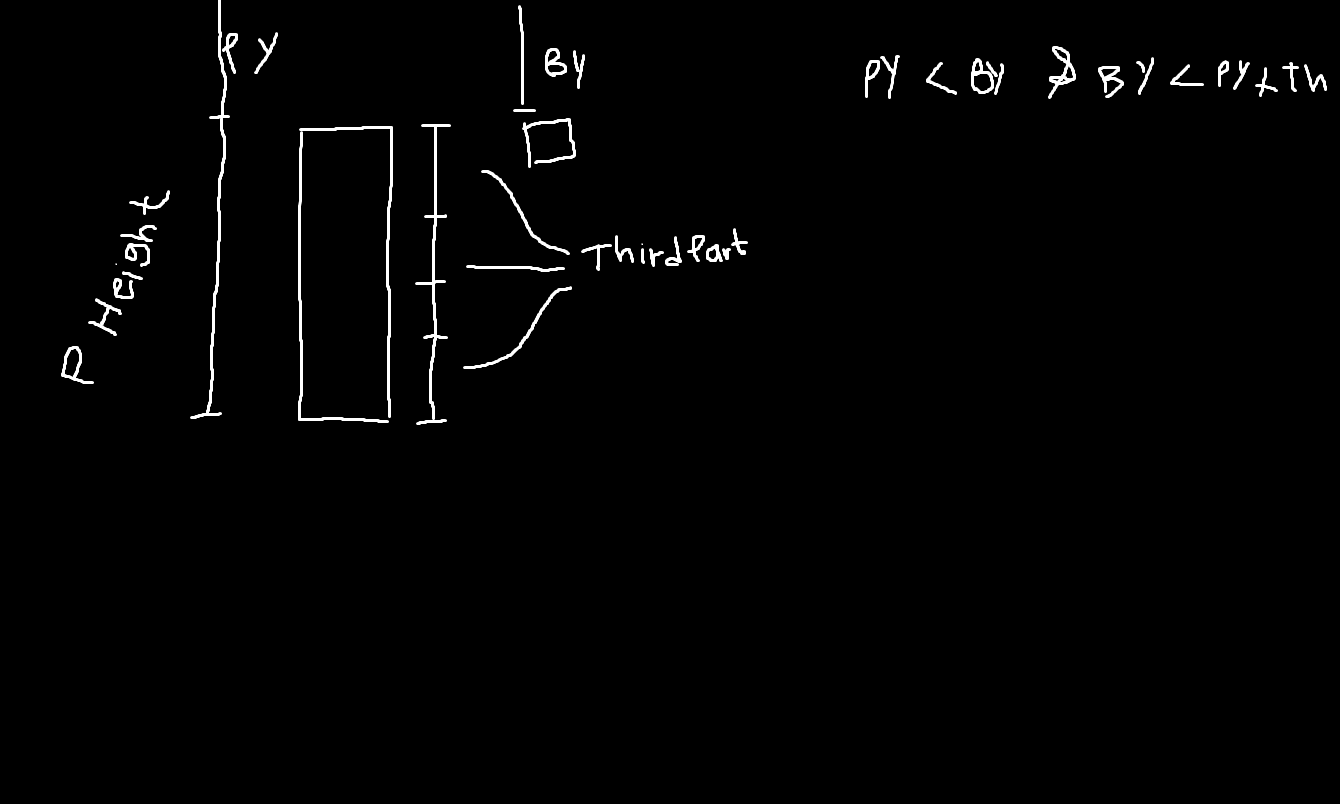
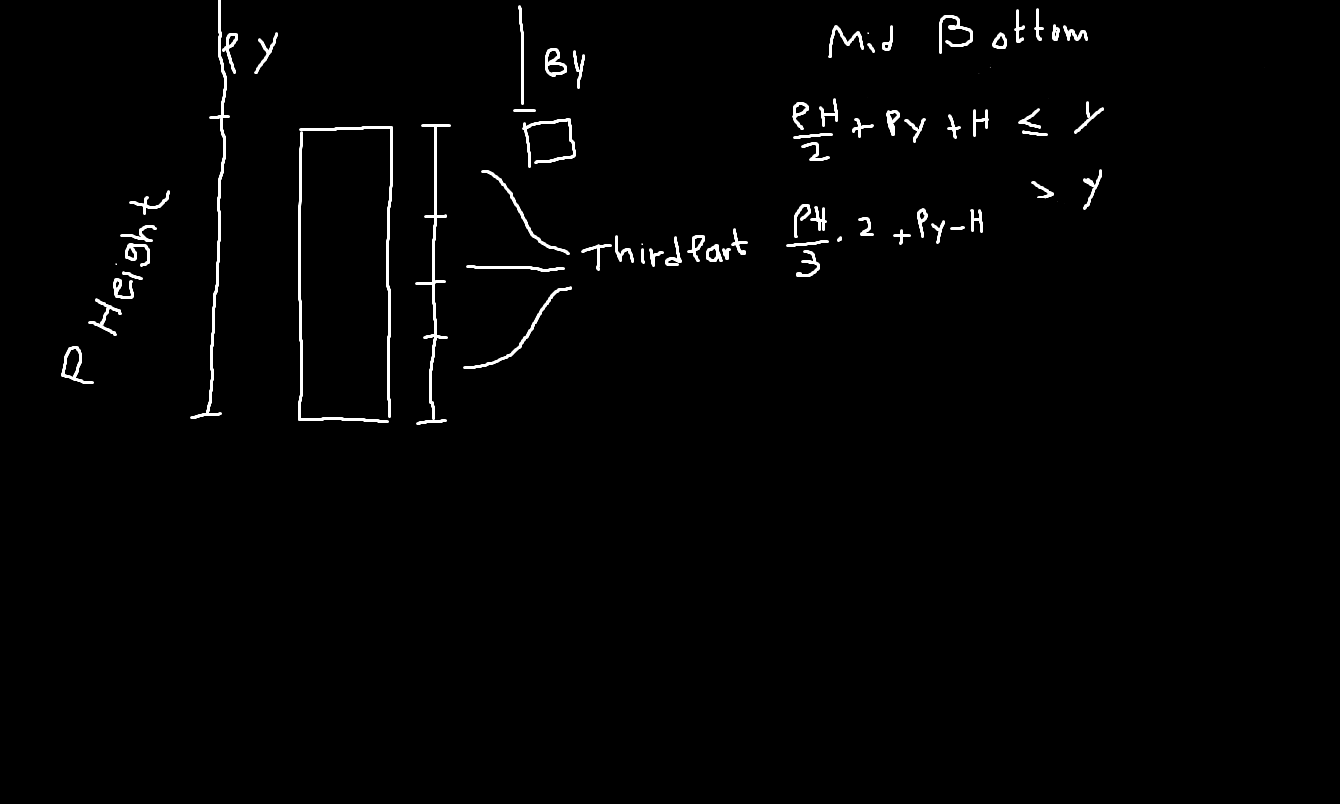
player vs player done

diff --git a/js/pong.js b/js/pong.js
@@ -15,9 +15,9 @@ const dark = getComputedStyle(document.documentElement).getPropertyValue('--dark
 const red = getComputedStyle(document.documentElement).getPropertyValue('--redPong');
 const black = getComputedStyle(document.documentElement).getPropertyValue('--blackPong');
 
+//global variables
+let isFinish = true;
 
-// other globals variables
-let isPaused = false;
 
 // function to set the background
 const background = () => {
@@ -28,7 +28,7 @@ background();
 
 // creating buttons class
 class Rectangle {
-
+    
     constructor(color, x, y, width, height) { //size parameter needs
         this.color = color;
         this.x = x;
@@ -36,16 +36,16 @@ class Rectangle {
         this.width = width;
         this.height = height;
     }
-
+    
     fill() {
         ctx.fillStyle = this.color;
         ctx.fillRect(this.x, this.y, this.width, this.height)
     }
-
+    
 }
 
 class Button extends Rectangle {
-
+    
     constructor(color, x, y, width, height, text, oppositeColor, font = '30px "VT323", consolas', active = true) {
         super(color, x, y, width, height);
         this.text = text;
@@ -53,18 +53,18 @@ class Button extends Rectangle {
         this.font = font;
         this.active = active
     }
-
+    
     createText() {
         ctx.fillStyle = this.oppositeColor;
         ctx.font = this.font;
         ctx.fillText(this.text, canvas.width / 2 - this.text.length * 6, this.y + 40 - this.height + 5)
     }
-
+    
     createButton() {
         this.fill();
         this.createText();
     }
-
+    
 }
 
 class Text {
@@ -74,23 +74,23 @@ class Text {
         const font = this.fontSize + fontFamily;
         this.font = font;
         this.completeText = (text === 'Player 1') ? text + ': '+ score:
-                             (text === 'Player 2') ? score + ' :' + text :
-                             text;
+        (text === 'Player 2') ? score + ' :' + text :
+        text;
         this.text = text
         this.x = x;
         this.y = y;
         this.score = score;
         this.player = player;
     }
-
-
-
+    
+    
+    
     fill() {
         ctx.fillStyle = this.color;
         ctx.font = this.font;
         this.completeText = (this.player === '1') ? this.text + ': '+ this.score:
-                    (this.player === '2') ? this.score + ' :' + this.text :
-                    this.text;
+        (this.player === '2') ? this.score + ' :' + this.text :
+        this.text;
         ctx.fillText(this.completeText, this.x, this.y)
     }
 }
@@ -124,7 +124,7 @@ class Icon {
         this.color = color;
         this.line = line;
     }
-
+    
     createStroke() {
         ctx.strokeStyle = skyBlue;
         ctx.lineWidth = this.line
@@ -132,23 +132,11 @@ class Icon {
     }
 }
 
-// creating restart, pause and home buttons
-const pause = new Icon(canvas.width / 2 - 25 / 2, canvas.height - 30 + 5, 20, 20) //, pauseDraw);
+// creating restart and home buttons
 const restart = new Icon(canvas.width / 2 - 25 - 20, canvas.height - 30 + 5, 20, 20);
 const home = new Icon(canvas.width / 2 + 20, canvas.height - 30 + 5, 20, 20);
 
-const createIcons = (pauseB = true, restartB = true, homeB = true) => {
-    //pause button
-    const pauseDraw = () => {
-        ctx.fillStyle = skyBlue;
-        ctx.fillRect(pause.x + 3.33, pause.y + 2.5, 5, 15);
-        ctx.fillRect(pause.x + 5 + 3.3 * 2, pause.y + 2.5, 5, 15);
-    }
-    if (pauseB) {
-        pauseDraw();
-        pause.createStroke();
-    }
-
+const createIcons = (restartB = true, homeB = true) => {
     // create restart button
     
     const restartImg = document.getElementById("restart");
@@ -156,7 +144,7 @@ const createIcons = (pauseB = true, restartB = true, homeB = true) => {
         restart.createStroke();
         ctx.drawImage(restartImg, restart.x + 2.5, restart.y + 2.5, restart.width - 5, restart.height - 5);
     }
-
+    
     // home icon
     const homeImg = document.getElementById('home');
     if( homeB ) {
@@ -166,6 +154,8 @@ const createIcons = (pauseB = true, restartB = true, homeB = true) => {
 }
 
 const initializePlayerVsPlayer = () => {
+
+    isFinish = false;
 
     setTimeout(()=>{
         ball.x = Math.round((ball.x -30)/4) * 4 + 30;
@@ -178,20 +168,20 @@ const initializePlayerVsPlayer = () => {
         controller.ArrowUp.func = 'player2.moveUp(-4)';
         controller.s.func = 'player1.moveDown(4)';
         controller.ArrowDown.func = 'player2.moveDown(4)';
-    }, 5000);
+    }, 10000);
 
     setTimeout(()=>{
         controller.w.func = 'player1.moveUp(-3)';
         controller.ArrowUp.func = 'player2.moveUp(-3)';
         controller.s.func = 'player1.moveDown(3)';
         controller.ArrowDown.func = 'player2.moveDown(3)';
-    }, 10000);
+    }, 15000);
     setTimeout(()=>{
         controller.w.func = 'player1.moveUp(-2)';
         controller.ArrowUp.func = 'player2.moveUp(-2)';
         controller.s.func = 'player1.moveDown(2)';
         controller.ArrowDown.func = 'player2.moveDown(2)';
-    }, 15000);
+    }, 20000);
 
     // creating text of players
     const player1Text = new Text(skyBlue, 'Player 1', canvas.width / 40, 20, 0, '1', '24px')
@@ -258,7 +248,8 @@ const initializePlayerVsPlayer = () => {
     }
 
     const update = () => { // function to run every time
-        if (!isPaused) {
+        if (!isFinish) {
+
             clear();
             background();
 
@@ -266,17 +257,18 @@ const initializePlayerVsPlayer = () => {
             player2.stop();
 
             ball.fill()
-            
+
             changeDy();
             player1.newPos();
             player2.newPos();
 
             player1.fill();
             player2.fill();
-            
+
             drawingExtraStuff();
             requestAnimationFrame(update);
             ball.newPos();
+
         }
     }
 
@@ -318,7 +310,7 @@ const initializePlayerVsPlayer = () => {
             rect.y = canvas.width - rect.height - 30;
         }
     }
-    
+
     const getRandomLoc = () =>{
         const locs = [210, 190];
         const getRandomNum = () => (Math.round(Math.random() *1));
@@ -371,27 +363,43 @@ const initializePlayerVsPlayer = () => {
                 }
             } 
         }
-            
+
 
         detectPlayers() {
             if ((player1.y - this.height < this.y && player1.height + player1.y > this.y) && // ball is between platform (y axis)
-                (player1.x + player1.width === this.x)) { //x ball is smaller than x platform + width
+            (player1.x + player1.width === this.x)) { //x ball is smaller than x platform + width
                 this.dx *= -1;
-                const thirdPart = player1.height/ 3;
-                if (player1.y - this.height < this.y && this.y < player1.y + thirdPart-this.height){
-                    this.dy = -2
-                    console.log('top')
-                }else if(player1.y + thirdPart - this.height < this.y && this.y < player1.height / 2 + player1.y ){
-                    this.dy = -0.7
-                    console.log('mid top')
-                }
-                else if(this.y < player1.height / 2 + player1.y){
+                const thirdPart = player1.height / 3;
+
+                if(player1.y - this.height < this.y && player1.y + thirdPart - this.height >= this.y){
+                    this.dy = -2;
+                }else if(player1.y + thirdPart - this.height < this.y && this.y <= (player1.height / 2) + player1.y - (this.height / 2)){
+                    this.dy = -0.7;
+                }else if((player1.height / 2) + player1.y <= this.y && thirdPart * 2 + player1.y  > this.y){
+                    this.dy = 0.7;
+                }else if(thirdPart * 2 + player1.y <= this.y){
+                    this.dy = 2;
+                }else{
+                    this.dy = 0;
                 }
             }
 
             if ((player2.y - this.height < this.y && player2.height + player2.y > this.y) &&
-                (player2.x - this.width === this.x)) {
-                this.dx *= -1
+            (player2.x - this.width === this.x)) {
+                this.dx *= -1;
+                const thirdPart = player2.height / 3;
+
+                if(player2.y - this.height < this.y && player2.y + thirdPart - this.height >= this.y){
+                    this.dy = -2;
+                }else if(player2.y + thirdPart - this.height < this.y && this.y <= (player2.height / 2) + player2.y - (this.height / 2)){
+                    this.dy = -0.7;
+                }else if((player2.height / 2) + player2.y <= this.y && thirdPart * 2 + player2.y  > this.y){
+                    this.dy = 0.7;
+                }else if(thirdPart * 2 + player2.y <= this.y){
+                    this.dy = 2;
+                }else{
+                    this.dy = 0;
+                }
             }
 
         }
@@ -407,19 +415,19 @@ const initializePlayerVsPlayer = () => {
     }
 
     // instancing ball
-    const ball = new Ball(200, 40, 2, 1);
+    const ball = new Ball(...getRandomLoc(), 2, 0);
 
 
     // win the game
     const winGame =({winner, score1, score2})=>{
+        isFinish = true;
         clear();
-        isPaused = true;
         background()
         const winText = new Text(skyBlue, `Player ${winner} has won :D`, canvas.width / 2  - `Player ${winner} has won :D`.length*4 , canvas.height / 3);// - `Player ${winner} has won :D`.length
         winText.fill();
         const resultsText = new Text(skyBlue, `Final score -> p1: ${score1} - ${score2}: p2`, canvas.width / 2  - `Final score -> p1: ${score1} - ${score2}: p2`.length*4 , canvas.height *2/3);// - `Player ${winner} has won :D`.length
         resultsText.fill();
-        createIcons(false);
+        createIcons();
     }
 
 
@@ -438,8 +446,11 @@ const initializePlayerVsPlayer = () => {
 }
 
 
+const initializePlayerVsComputer = ()=>{
+}
 
 // detecting when click the canvas 
+
 const getMousePosition = (canvas, event) => {
     let rect = canvas.getBoundingClientRect();
     let x = event.clientX - rect.left;
@@ -447,19 +458,20 @@ const getMousePosition = (canvas, event) => {
     if (isClicked(playerVsPlayer, x, y)) {
         initializePlayerVsPlayer();
     }
-    if (isClicked(pause, x, y)) {
-        isPaused = isPaused ? false : true;
-    }
     if (isClicked(restart, x, y)) {
-        isPaused = false;
-        initializePlayerVsPlayer();
+        location.reload();
     }
-    if (isClicked(playerVsComputer, x, y)) {}
+    if (isClicked(home, x, y)) {
+        location.reload();
+    }
+    if (isClicked(playerVsComputer, x, y)) {
+        initializePlayerVsComputer();
+    }
 }
 
 const isClicked = ({ x, y, width, height, active }, xClicked, yClicked) => {
     if (xClicked >= x && xClicked <= width + x && yClicked >= y && yClicked <= y + height && active === true)
-        return true
+    return true
 }
 
 canvas.addEventListener("click", (e) => {
